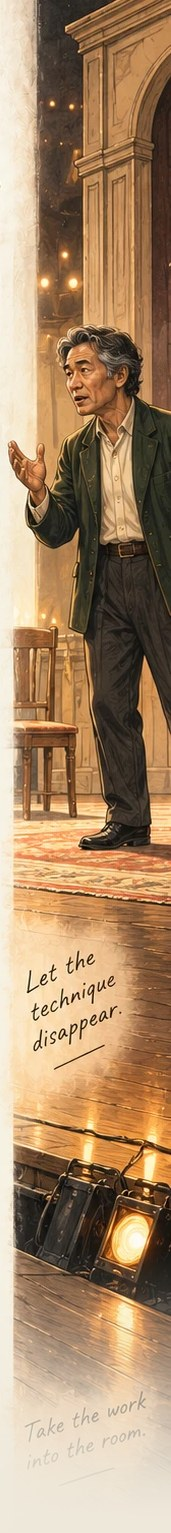
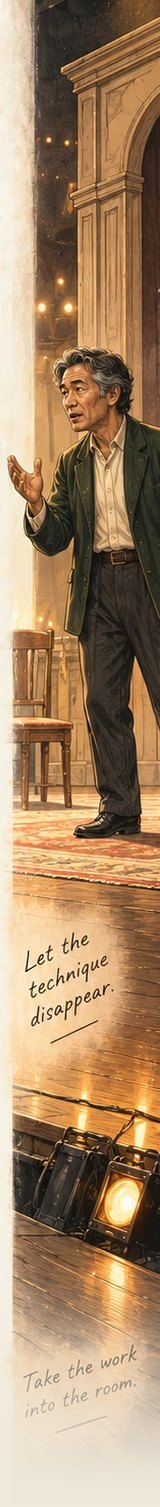
learn: take the new Script Analysis art, and record why the margins fade
The redrawn Script Analysis mockup bleeds behind the header and the nav
bar, which the first batch did not, so its margins now run the full
height of what the page crops. All ten strips are recut from source at
160px with the same pipeline; module 1 gets the new drawing.

MIRROR-TILING WAS BUILT, TESTED AND REMOVED IN THE SAME SESSION. Baking
[art, flipped art] into each file gives a seamless vertical repeat —
every join is a pair of identical rows, and across stone and ivy the
seam is genuinely undetectable. It shipped for about ten minutes and
then printed "Take the work into the room" upside down and reversed in
module 5's right margin, because these margins carry HANDWRITTEN NOTES.
Seamless is not the same as correct.

DRAWING TALLER ART DOES NOT FIX IT EITHER, which is worth writing down
because it is the obvious next idea. Band height is not fixed: it grows
as card text wraps, so at a 600px window module 5 needs a 1:17.2 margin
against art drawn at 1:9.4. Measured, not estimated. No single aspect
covers every width.

So the strips fade into the page over their last fifth, as before, and
the real fix moves into the artwork: a quiet, featureless bottom band
with no text and no props can be extended to any height. That is now the
one non-negotiable rule in docs/LEARN_BAND_IMAGE_SPEC.md, which also
records both rejected approaches so neither gets re-tried.

diff --git a/css/style.css b/css/style.css
@@ -2189,8 +2189,27 @@ button.mask-card:hover, button.mask-card:focus-visible { border-color: var(--gre
    round. Sizing by height instead would scale the strip's width with the
    number of lessons in the module — a nine-lesson band would push its own
    artwork out under the cards — and stretching to `100%` would distort
-   the faces in it. A short band crops the bottom of the strip and a tall
-   one simply runs out of painting, which is what a margin should do.
+   the faces in it.
+
+   THE STRIPS DO NOT REPEAT, AND MIRROR-TILING WAS TRIED AND REJECTED
+   (2026-10-22). Baking [art, flipped art] into each file makes a
+   seamless repeat — every join becomes a pair of identical rows — and
+   on stone and ivy the seam really is invisible. It fails on the
+   artwork this page actually has: the margins carry HANDWRITTEN NOTES
+   ("Take the work into the room"), and the flipped copy prints them
+   upside down and back to front, which is unmistakably a bug.
+
+   Repetition cannot be avoided by drawing taller art either. Band height
+   grows as cards wrap, so at a 600px window module 5 needs a 1:17.2
+   margin against art that is 1:9.4. No single drawing covers every
+   width.
+
+   So the strip ends and DISSOLVES INTO --bg over its last fifth, baked
+   into the JPEG. The honest cost is paper below the art on the tallest
+   bands at the narrowest widths. The fix is in the artwork, not here:
+   a quiet, featureless bottom band — wall, floor, plain ivy, no text and
+   no props — can be extended downward to any height without smearing or
+   repeating. See docs/LEARN_BAND_IMAGE_SPEC.md.
 
    Art is optional and absent art is not a failure: a band with no
    painting is a plain band. A missing picture must never render as a

diff --git a/docs/LEARN_BAND_IMAGE_SPEC.md b/docs/LEARN_BAND_IMAGE_SPEC.md
@@ -1,0 +1,103 @@
+# Learn band artwork — what the page needs from an image
+
+The Acting Learn page is five illustrated bands in one scroll. Each band
+is framed by two painted margins with the lesson cards on the paper
+between them. This is what a generated image has to satisfy for the
+margins to run unbroken from the top of the course to the bottom.
+
+Written 2026-10-22, after the first five images left a hard horizontal
+cut across two of the five bands.
+
+## The problem to solve
+
+Margin art is placed at a **fixed width** with its **natural height**.
+Sizing it by height instead would scale its width with the number of
+lessons in the module — a nine-lesson band would push its own artwork
+out under the cards — and stretching it to fit would distort the faces.
+
+So a band taller than its painting runs out of picture. Measured at an
+820px window, with 104px margins:
+
+| # | Module | Lessons | Band height | Margin aspect needed |
+|---|---|---|---|---|
+| 1 | Script Analysis | 5 | 739px | 1 : 7.1 |
+| 2 | Where Behavior Comes From | 8 | 1067px | 1 : 10.3 |
+| 3 | Listening and Responding | 6 | 747px | 1 : 7.2 |
+| 4 | Tempo-Rhythm | 6 | 747px | 1 : 7.2 |
+| 5 | Preparing the Performance | 9 | 1141px | 1 : 11.0 |
+
+The first batch were all 1 : 8.2, so modules 2 and 5 fell short.
+
+**These numbers are a floor, not a target.** Band height grows as the
+window narrows, because card text wraps to more lines. At the 560px
+breakpoint where the margins are still shown, module 5 approaches
+1 : 14. No single fixed aspect is right at every width.
+
+## The rule that actually fixes it
+
+**The bottom and top of every margin must be quiet, repeatable
+material** — wall, ivy, floorboards, curtain — carrying no face, no
+hand, no prop, no handwriting and no hard edge. The page extends the
+last clean slice downward to meet the next band, so whatever the band's
+height, the art arrives at the next one. That only looks right if the
+slice it extends is featureless.
+
+Reserve the top **12%** and the bottom **12%** of each margin for it.
+
+### Two alternatives that were tried and do not work
+
+**Drawing the art taller.** Band height is not fixed — it grows as card
+text wraps — so at a 600px window module 5 needs a **1:17.2** margin.
+Against art drawn at 1:9.4, that is nearly double, and a 1:17 strip is
+not a drawing anybody wants to compose. No single aspect covers every
+width, so the art will always run out somewhere.
+
+**Mirror-tiling** (2026-10-22). Baking `[art, flipped art]` into each
+file gives a genuinely seamless vertical repeat: every join is a pair of
+identical rows, and across stone and ivy the seam is undetectable —
+measured and confirmed. It still fails here, because these margins carry
+**handwritten notes**. The flipped copy prints *"Take the work into the
+room"* upside down and reversed, which no amount of seamlessness
+excuses. Mirroring stays available for artwork with no text and no
+strongly oriented objects; it is not available for this page.
+
+That leaves the quiet band as the only approach that survives any band
+height, which is why it is the one rule here that cannot be traded away.
+
+## Hard requirements
+
+1. **Full vertical bleed.** The illustration reaches the very top and
+   very bottom edge of the image. No white margin, no fade, no vignette,
+   no rounded corners, no drop shadow, no border. If the mockup includes
+   the app header or the bottom navigation bar, the illustration must
+   continue *behind* them — those get cropped away and the art has to
+   survive the cut.
+2. **The centre channel stays clean paper.** The middle ~55% of the
+   width carries the lesson cards and the node rail. Nothing is painted
+   there: no figures, no props, no shadows reaching into it. Cards drawn
+   into the mockup are fine — they get cut out — but nothing painted in
+   that channel can be part of the artwork.
+3. **Figures sit in the middle third vertically**, clear of the top and
+   bottom 12%.
+4. **The join has to match.** One band's bottom edge butts against the
+   next band's top edge. Same material, same scale, same light
+   direction, same horizon height. A floor at the bottom of module 2 and
+   a ceiling at the top of module 3 will read as a mistake.
+5. **One palette across all five.** Warm parchment, ink line, muted
+   sage and olive, soft gold light. Same eye level, same time of day,
+   same rendering weight.
+6. **JPEG or PNG. Never WebP** — `tools/build_artifact.py` ships `img`
+   as `.jpg/.png/.svg/.json` only, so a `.webp` lands in git and 404s on
+   the live site.
+
+## What happens to the file afterwards
+
+The mockup is cut into two strips — left of the node rail, right of the
+cards — and the centre is discarded. Nothing is painted over; the real
+page background shows between the strips. Sizes land around 70–90KB per
+strip.
+
+Replacing a strip at a path that is already live **requires a service
+worker `VERSION` bump** in `sw.js`: media is served `cacheFirst`, which
+never revalidates, so an installed copy would keep the old picture
+forever. A new image at a new path needs no bump.
